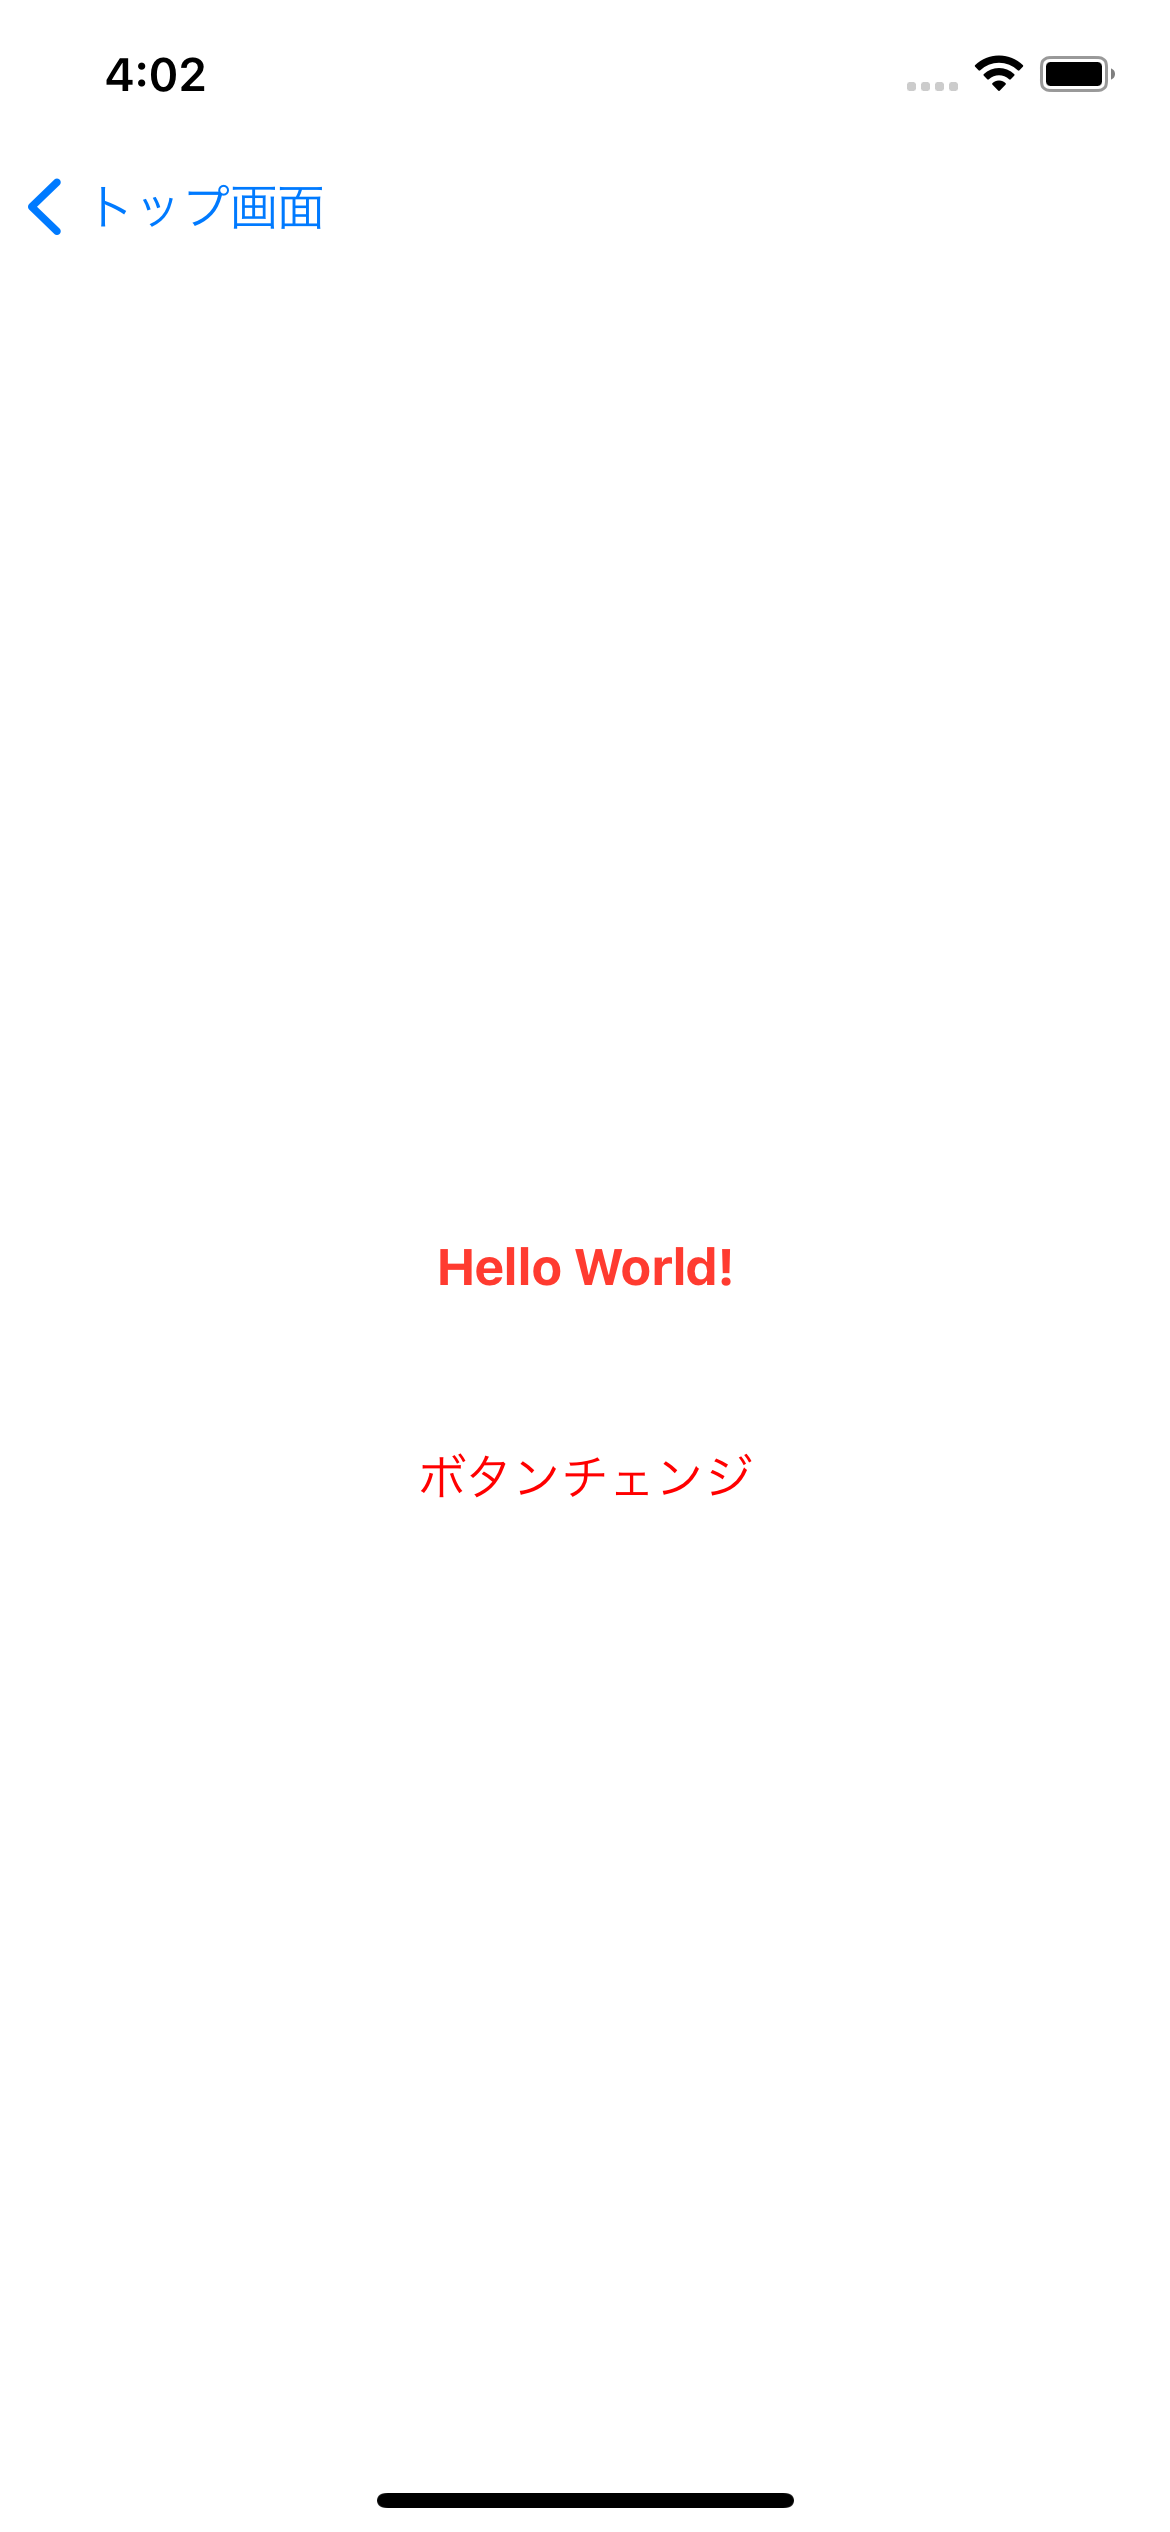
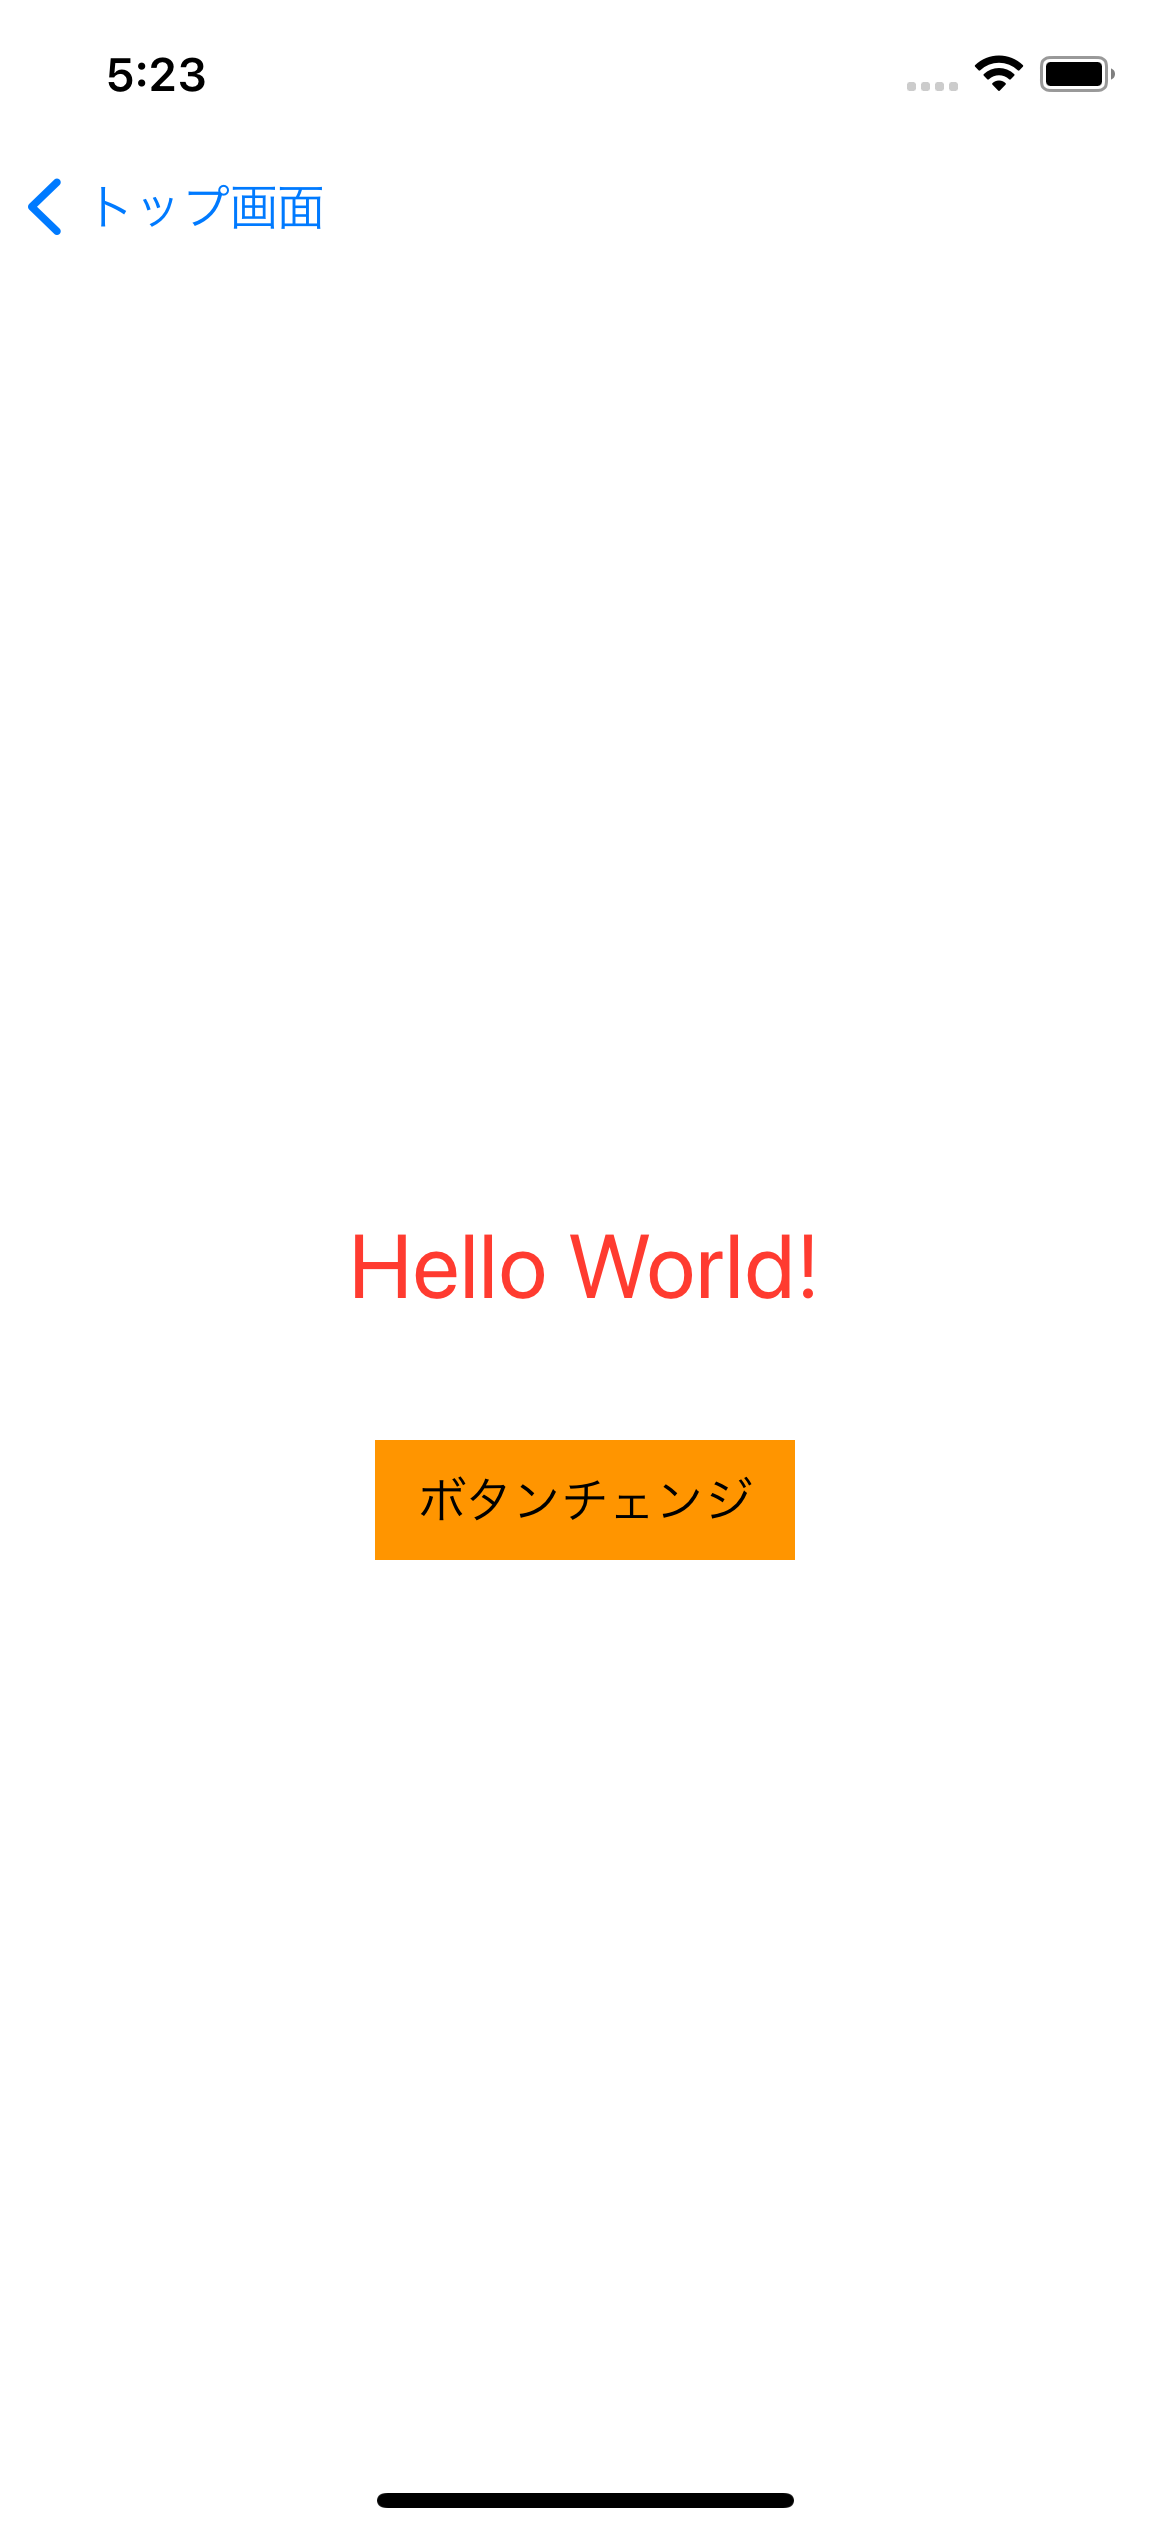
チャプター0課題更新

diff --git a/Chapter/Chapter0/Task.md b/Chapter/Chapter0/Task.md
@@ -4,61 +4,72 @@
 
 <img src="Img/Task/Init.png" width="30%">
 
-## TODO1: StoryboardにUILabel(部品)を設置しよう
+## 【TODO1】 StoryboardにUILabel(部品)を設置しよう
 Storyboardには様々な部品を設置することができます。
 
-設置するためには図の矢印の「＋」を押すか、キーボードで「shift + command + l」を押すことで、設置できる部品を一覧で表示することができるのでそこから選択して設置します。
+設置するためには図の矢印の「＋」を押すか、キーボードで「shift + command + l」を押すことで、設置できる部品を一覧で表示することができるのでそこから表示したい部品を選択して設置できます。
 
-<img src="Img/Task/Description1_1.png" width="70%">
+<img src="Img/Task/Description1.png" width="90%">
+
+今回は文字を表示するための部品である`UILabel`を取り扱います。
 
 【やること】
-* ChapterZero.storyboardに`UILabel`を配置しましょう
 
-※ 配置する場所はどこでも構いません
+- ChapterZero.storyboardに`UILabel`を配置しましょう
+  - 配置する場所はどこでも構いません
+
+※「▶」ボタンを押すことでSimulatorを起動(ビルド)できます(起動後トップ画面からChpater0を選択します)
+
+<img src="Img/Task/Description2.png" width="90%">
 
 完成予想画面
 
 <Img src="Img/Task/Todo1.png" width="30%">
 
-## TODO2: UILabel(部品)をカスタマイズしよう
+## 【TODO2】 UILabel(部品)をカスタマイズしよう
+UILabel(部品)は表示する文字やフォント、色などをカスタマイズがすることができます。
+設置したUILabelを選択しながらユーティリティエリアを見てみると、設定しているLabelの情報を確認することができます。
+
+<img src="Img/Task/Description3.png" width="90%">
+
 【やること】
-* `Label`の文字を`Hello World!`に文字を変更してみましょう
-* 表示される文字色を変更してみましょう
-* 表示される文字フォントを太くしてみましょう
+
+- `Label`の文字を`Hello World!`に文字を変更しましょう
+- 表示される文字色を赤色に変更しましょう
+- 表示される文字サイズを30ptに変更しましょう
 
 完成予想画面
 
 <Img src="Img/Task/Todo2.png" width="30%">
 
-<details>
+## 【TODO3】 UILabel(部品)に制約をつけてみよう
+【TODO1】でUILabelを設定しましたが、どこに設置するかは自由に決めたかと思います。
 
-<summary>ヒント</summary>
+自由に設置しても大丈夫なのですが、小さい端末で表示した時と大きな端末で表示した時とで表示が異なっていしまいます。例えば、iPhone11では真ん中に表示したつもりでもiPhone13ではズレていることがあります。
 
-ラベルをクリックした後にユーティリティエリアを確認すると各情報を見ることができます。
+<img src="Img/Task/Description4.png" width="90%">
 
-そこから文字、色、フォントなどを変更することができます。
+iPhone11 | iPhone13
+:--: | :--:
+<img src="Img/Task/Description5.png" width="90%"> | <img src="Img/Task/Description6.png" width="90%">
 
-<Img src="Img/Task/Hint2.png" width="30%">
+こういったズレを防ぐために部品をどこに設置するかのルールを決めることができます。このルールを**制約**と呼びます。制約に必要な情報は2つあり、位置と大きさになります。
 
-</details>
+※ 制約の設定方法
 
-## TODO3: UILabel(部品)に制約をつけてみよう
-**制約とは？** → 部品を設置する際にどこに置くかのルール。位置と大きさの2つを決める必要がある。
-
-※ 制約用語説明
-
-<Img src="Img/Task/Description3_1.png" width="70%">
+**Align**
 
 Horizontally in Container
-* 水平方向(横方向)に対して中心からどれだけずらすか(0の場合は中心に配置される)
+* 水平方向(X軸)の中心に配置する(数値を指定することで中心からどれだけズラすかを設定できる)
 
 Vertically in Container
-* 垂直方向(縦方向)に対して中心からどれだけずらすか(0の場合は中心に配置される)
+* 垂直方向(Y軸)の中心に配置する(数値を指定することで中心からどれだけズラすかを設定できる)
 
-<Img src="Img/Task/Description3_2.png" width="70%">
+<Img src="Img/Task/Description7.png" width="90%">
+
+**Add New Constraints**
 
 |---■---|
-
 * 一番近い部品に対して、上下左右どれだけ余白を取るかを数値で指定する
 
 width
@@ -67,68 +78,119 @@ width
 height
 * 部品の高さ
 
+<Img src="Img/Task/Description8.png" width="90%">
+
 ※ 制約を設定した後に「Add Constraints」を押下することで制約が適用されます
 
 【やること】
-* 設置したUILabel(部品)を画面の真ん中に配置しましょう
+
+- 設置したUILabel(部品)をiPhone13とiPad Pro(12.9inch)の異なる端末でも画面の真ん中になるように配置しましょう
+
+※ 起動(ビルド)する端末(Simulator)はそれぞれ`iPhone13`、`iPad Pro(12.9inch)`を選択して確認してください。
 
 完成予想画面
 
 iPhone13 | iPad Pro(12.9inch)
 :--: | :--:
-<Img src="Img/Task/Todo3_iPhone13.png" width="70%"> | <Img src="Img/Task/Todo3_iPad.png" width="70%">
+<Img src="Img/Task/Todo3_iPhone.png" width="70%"> | <Img src="Img/Task/Todo3_iPad.png" width="70%">
 
 ## TODO4: UIButton(部品)を配置しよう
+タップしたときに何かアクションをおこしたいといった場合には`UIButton`という部品を取り扱います。
+
 【やること】
-* `UILabel`と同様に`UIButton`を配置しましょう
-* 表示される文字を`ボタン`に変更しましょう
-* 設置した`UIButton`に対して`UILabel(Hello World!)`の一番下から40px、幅160px、高さ40px、横幅中央の制約を適用しましょう
+
+- `UILabel`と同様に`UIButton`を配置しましょう
+- 表示される文字を`ボタン`に変更しましょう
+- 背景色をオレンジ色に変更しましょう
+- 設置した`UIButton`に対して制約を適用しましょう
+  - 制約ルール: `UILabel(Hello World!)`の一番下から40px、横幅中央、幅160px、高さ40px
 
 完成予想画面
 
 <Img src="Img/Task/Todo4.png" width="30%">
 
-## TODO5: UIButton(部品)をカスタマイズしよう(UIViewControllerで変更バージョン)
-TODO2で`UILabel`の文字、文字色、フォントをStoryboard(ChapterZero.storyboard)で変更しましたが、UIViewController(ChapterZeroViewController.swift)からでも変更することができます。
+## TODO5: UIButton(部品)をカスタマイズしよう(コード)
+【TODO2】、【TODO4】でユーティリティエリアから部品をカスタマイズしてきましたが、こちらを使わずにコードで変更することもできます。
 
-* Storyboard <---> UIViewController接続方法
-    1. Storyboard、UIViewControllerの画面をそれぞれ表示します(キーボードの「option」を押しながらファイルをクリックでも2画面にできます)
-    <Img src="Img/Task/Description5_1.png" width="90%">
-    <Img src="Img/Task/Description5_2.png" width="90%">
+コードで変更するためには`ChapterZero.storyboard`と`ChapterZeroViewController.swift`を接続させる必要があります。
 
-    2. Storyboardの`UIButton`をタップし、キーボードの`control`を押しながらUIViewControllerのクラス内にドラッグします
-    <Img src="Img/Task/Description5_3.png" width="90%">
+**UIStoryboardとUIViewControllerの接続方法(アウトレット接続)**
+1. Storyboardで接続したいUIViewControllerを指定します(こちらは既に行っているので不要です)
 
-    3. 名前を設定し`Connect`を押し接続を完了させます(この部品そのものの接続をアウトレット接続と言い、接続されているかどうかはStoryboardの`UIButton`のユーティリティエリアから確認することができます)
-    <Img src="Img/Task/Description5_4.png" width="100%">
+<Img src="Img/Task/Description9.png" width="90%">
+
+2. 右上の「Add Editor」ボタンを押下し、接続したい画面同士の2画面にします(キーボードの「option」を押しながらファイルクリックでも2画面にすることができます)
+
+<Img src="Img/Task/Description10.png" width="90%">
+
+3. `UIButton`を選択状態にし、キーボードの「control」を押しながらUIViewControllerのクラス内にドラッグします。名前は「button」と設定し「Connect」を押下することで接続が完了します
+
+※ このUIStoryboardで配置したボタンをUIViewControllerに接続することをアウトレット接続と呼びます
+
+<Img src="Img/Task/Description11.png" width="90%">
 
 【やること】
-* UIViewControllerから`UIButton`の文字を`ボタンチェンジ`に変更してみましょう
-* UIViewControllerから`UIButton`の文字色を変更してみましょう
 
-※ UIViewController内の`viewDidLoad()`では画面(ここでいう`ChapterZero.storyboard`の「View」)の読み込みが完了した後に呼び出される処理になります。そのため`UIButton`の各変更も`viewDidLoad()`に記述しましょう。
+- `ChapterZero.storyboard`で設置した`UIButton`を`ChapterZeroViewController.swift`にアウトレット接続させましょう
+- アウトレット接続した`UIButton`を使用してコード上でボタンの文字を`ボタンチェンジ`に変更しましょう
+- アウトレット接続した`UIButton`を使用してコード上の文字色を黒色に変更しましょう
 
-`画面読み込み(ボタン生成) → 画面読み込み完了[viewDidLoad()](ボタン生成完了): ボタン文字・色変更 → 画面表示`
+※ `ChapterZeroViewController.swift`内の`viewDidLoad()`では画面の読み込みが完了した後に呼び出される処理になります。そのため`UIButton`の変更も`viewDidLoad()`に記述しましょう
+
+`画面読み込み(ボタン生成) → 画面読み込み完了[viewDidLoad()](ボタン生成完了): ボタン文字・色変更 → 画面表示`のような流れになります
+
+<details>
+
+<summary>ヒント</summary>
+
+```swift
+final class ChapterZeroViewController: UIViewController {
+    @IBOutlet var button: UIButton!
+
+    override func viewDidLoad() {
+        super.viewDidLoad()
+
+        button.setTitle(ここに表示したい文字を指定, for: .normal)
+        button.setTitleColor(ここに表示したい色を指定, for: .normal)
+    }
+}
+```
+
+</details>
 
 完成予想画面
 
 <Img src="Img/Task/Todo5.png" width="30%">
 
-## TODO6: UIButton(部品)をタップした時の処理を作成してみよう
-TODO5でStoryboardで設置した`UIButton`そのものをUIViewControllerと接続し、文字や色を変更しましたが、タップした際の処理もアウトレット接続と同様に接続することができます。
+## TODO6: UIButton(部品)のタップ処理を作成しよう
+【TODO5】で`UIButton`のアウトレット接続を行いましたが、タップや長押しなどの操作ができる部品にはアクション接続と呼ばれる別の接続を行うことができます。このアクション接続をした中に処理を記述することで、タップをされた時などに処理を行うことができます。
 
-* Storyboard <---> UIViewController接続方法
-    1. アウトレット接続と同様
-    2. アウトレット接続と同様
-    3. ConnectionをActionに変更し、名前を設定して`Connect`を押し接続を完了させます(この部品のタップなどの処理の接続をアクション接続と言います)
-    <Img src="Img/Task/Description6_1.png" width="100%">
+**UIStoryboardとUIViewControllerの接続方法(アクション接続)**
+1. アウトレット接続と同様
+2. アウトレット接続と同様
+3. アウトレット接続と同様に接続画面までいきます。設定する際に、Connectionを「Action」に変更し、名前を「tappedButton」と設定して`Connect`を押し接続を完了させます
+
+<Img src="Img/Task/Description12.png" width="90%">
 
 【やること】
-* Storyboardの`UILabel`をUIViewControllerにアウトレット接続してみましょう
-* `UIButton`をタップした際に`UILabel`の`Hello World!`の文字を`Change Button`に変更してみましょう
+- `ChapterZero.storyboard`で設置した`UILabel`を`ChapterZeroViewController.swift`にアウトレット接続させましょう(名前は「label」として設定してください)
+- `ChapterZero.storyboard`で設置した`UIButton`を`ChapterZeroViewController.swift`にアクション接続させましょう
+- ボタンをタップした際に「Hello World!」の文字が表示されている`UILabel`を「Goodbye World!」に変更しましょう
+
+<details>
+
+<summary>ヒント</summary>
+
+```swift
+@IBAction func tappedButton(_ sender: Any) {
+    label.text = 表示したい文字
+}
+```
+
+</details>
 
 完成予想画面
 
 ボタンタップ前 | ボタンタップ後
 :--: | :--:
-<Img src="Img/Task/Todo6_1.png" width="70%"> | <Img src="Img/Task/Todo6_2.png" width="70%">
+<Img src="Img/Task/Todo6_before.png" width="70%"> | <Img src="Img/Task/Todo6_after.png" width="70%">
